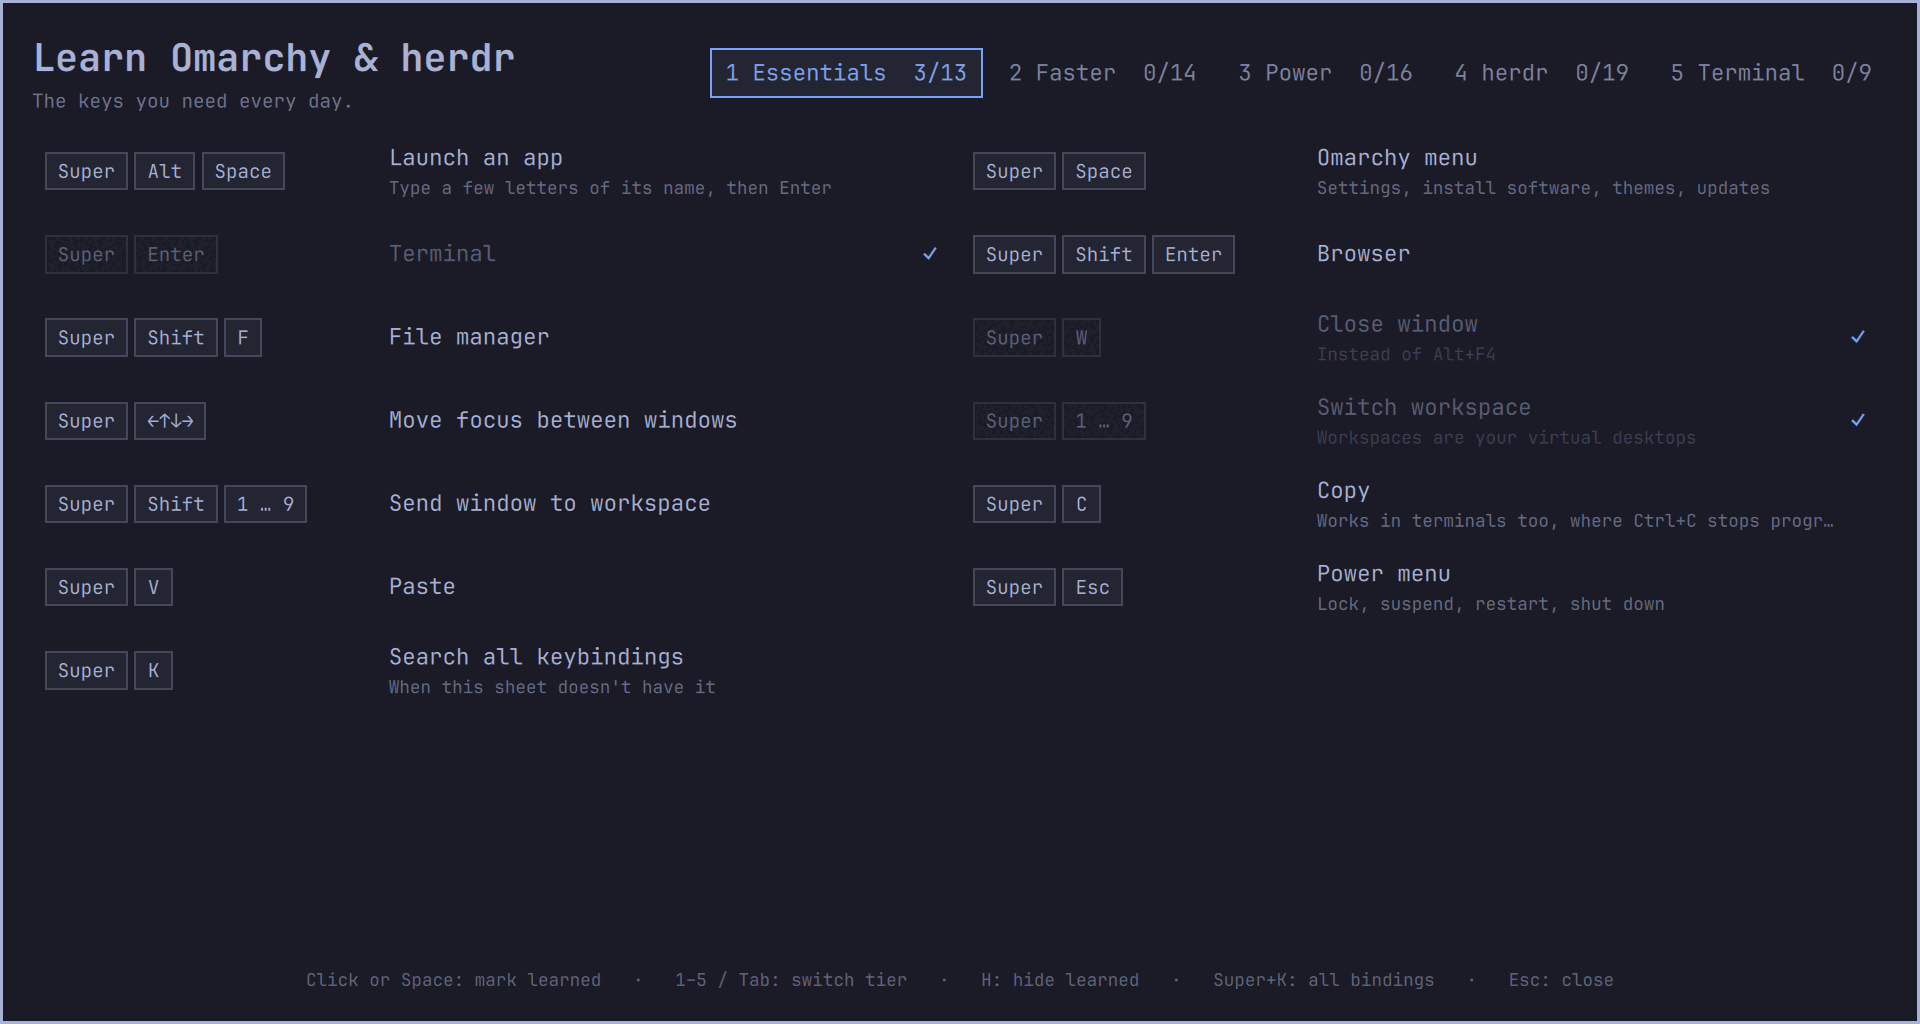
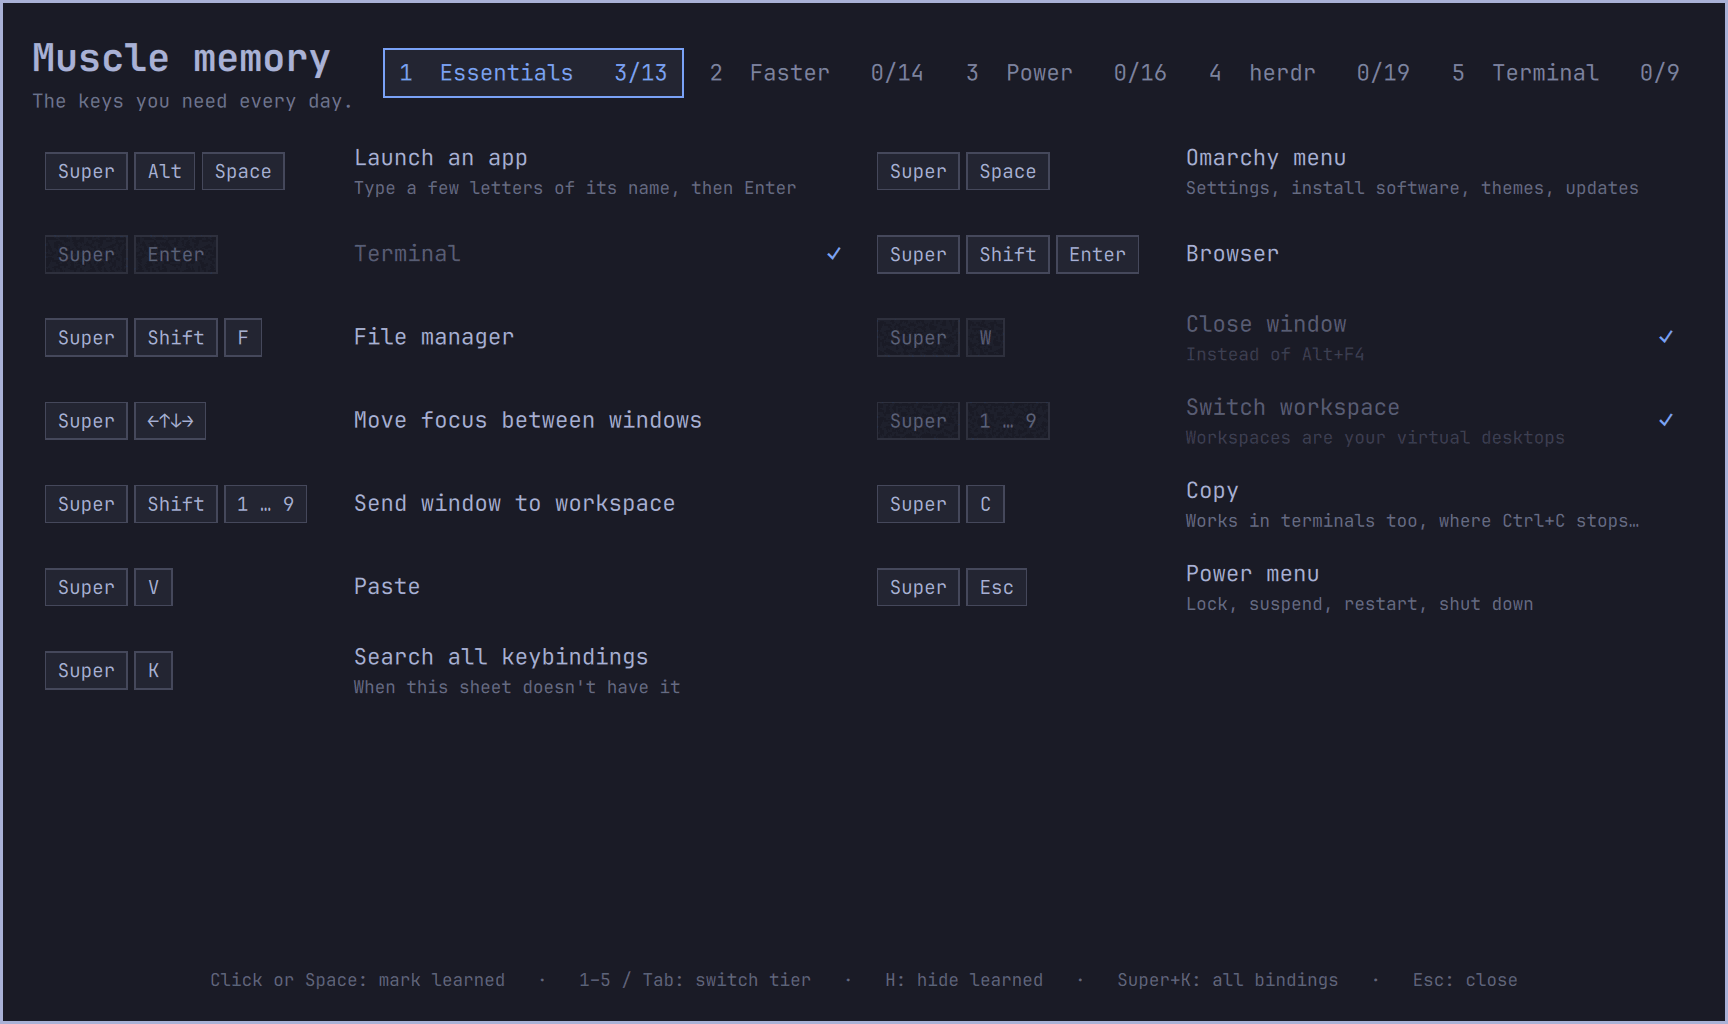
Call it Muscle memory
"Learn Omarchy & herdr" enumerated what was inside, so every new tier had to be
added to the title; the Terminal tier made that obvious. Name the outcome
instead — it is what the tiers, the ticks and the per-tier counts are for — and
the title stops needing maintenance.

A short title no longer crowds the tab row, so the card goes back to 1080 and
the tabs to their original spacing. The bound on the title stays: it is the
safety net for a sixth tier, not a workaround for this one.

diff --git a/Cheatsheet.qml b/Cheatsheet.qml
@@ -50,9 +50,7 @@ Item {
   // command should look like the thing you type.
   property string monoFamily: Style.font.family
   property int pad: Style.spacing.panelPadding
-  // 1200, not 1080: five tier tabs and the title share one line, and the
-  // title would rather be whole than fit a narrower card.
-  property int cardWidth: Math.min(Style.space(1200), panel.width - Style.gapsOut * 2)
+  property int cardWidth: Math.min(Style.space(1080), panel.width - Style.gapsOut * 2)
   property int cardHeight: Math.min(Style.space(640), panel.height - Style.gapsOut * 2)
   property int columns: cardWidth > Style.space(760) ? 2 : 1
   property int rowHeight: Math.max(Style.space(52), Style.font.title + Style.font.bodySmall + Style.spacing.xl * 2)
@@ -436,7 +434,7 @@ Item {
               // on top of each other on a narrow card.
               width: Math.min(implicitWidth, Math.max(0, tabs.x - Style.spacing.xl))
               elide: Text.ElideRight
-              text: Object.keys(root.herdrKeys).length ? "Learn Omarchy & herdr" : "Learn Omarchy"
+              text: "Muscle memory"
               color: root.foreground
               font.family: root.fontFamily
               font.pixelSize: Style.font.display
@@ -479,7 +477,7 @@ Item {
                 Text {
                   id: tabText
                   anchors.centerIn: parent
-                  text: (index + 1) + " " + modelData.name + "  " + progress.learned + "/" + progress.total
+                  text: (index + 1) + "  " + modelData.name + "   " + progress.learned + "/" + progress.total
                   color: active || (progress.total > 0 && progress.learned === progress.total) ? root.accent : root.foreground
                   opacity: active ? 1 : 0.7
                   font.family: root.fontFamily
